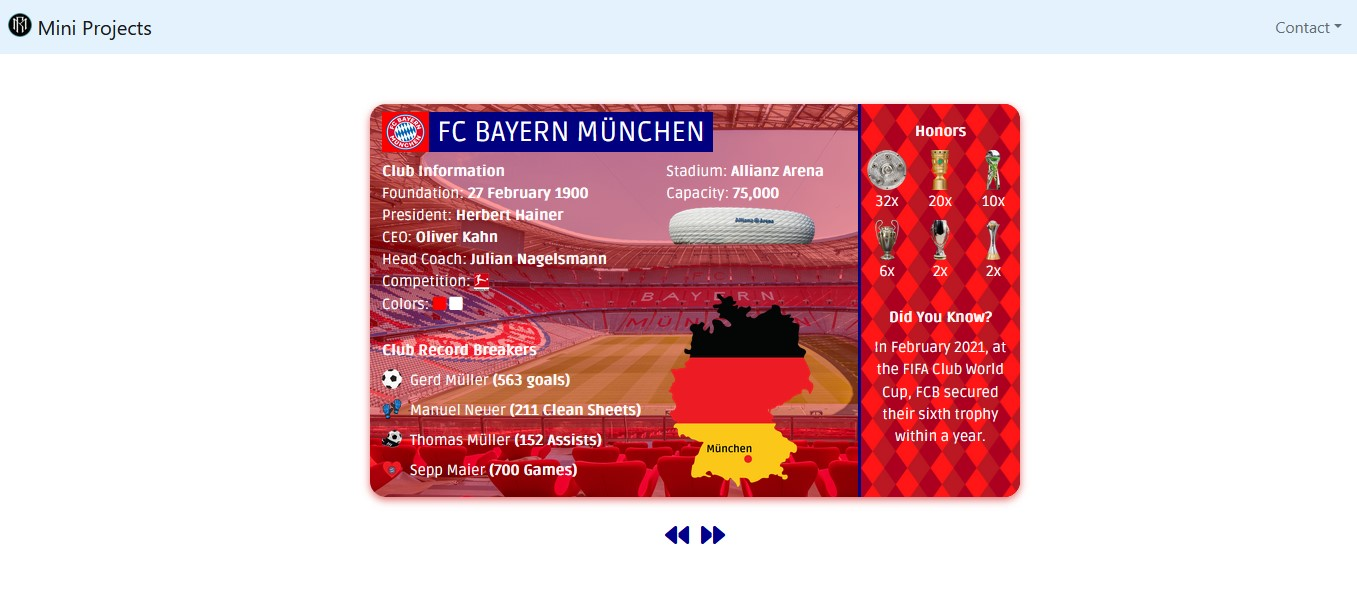
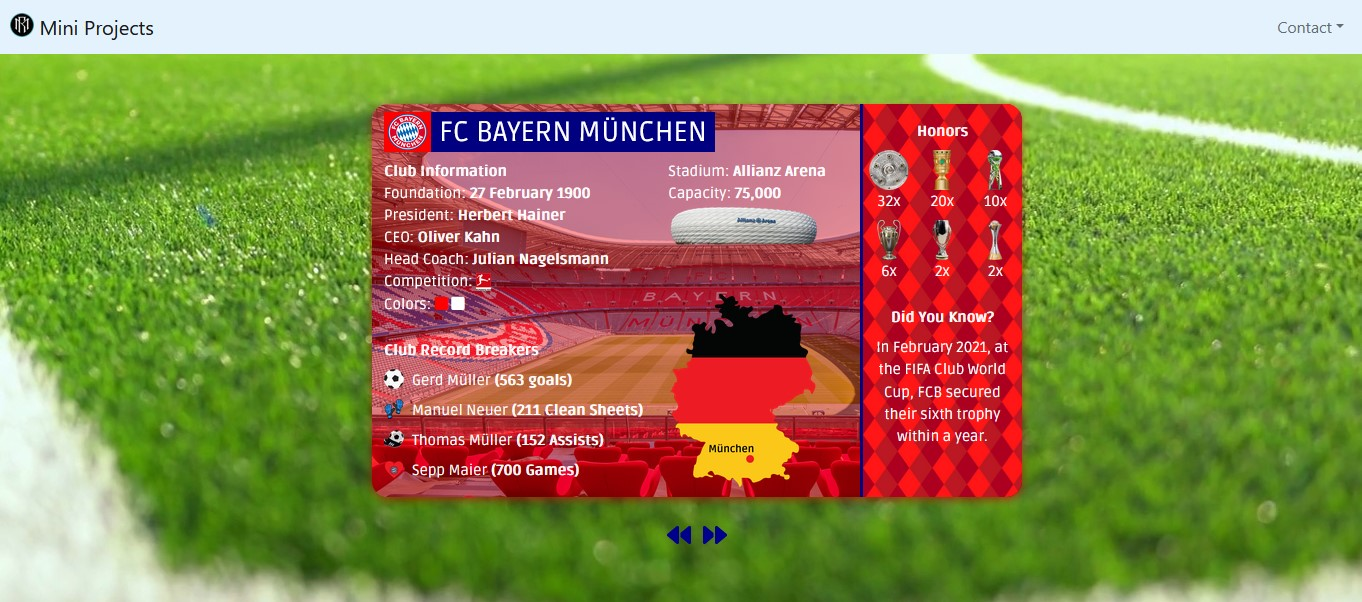
Teams slider project done

diff --git a/team-slider/index.html b/team-slider/index.html
@@ -548,29 +548,29 @@
                         <div class="row">
                             <div class="col col-7">
                                 <b><p>Club Information<p></b>
-                                <p>Foundation: <b>06 March 1902</b></p>
-                                <p>President: <b>Florentino Pérez</b></p>
-                                <p>Owner(s): <b>93,920 partners</b></p>
-                                <p>Head Coach: <b>Carlo Ancelotti</b></p>
+                                <p>Foundation: <b>12 September 1907</b></p>
+                                <p>President: <b>Ángel Haro García</b></p>
+                                <p>Owner(s): <b>Members</b></p>
+                                <p>Head Coach: <b>Manuel Pellegrini</b></p>
                                 <p>Competition:  <img src="assets/images/LaLiga.png" width="15" height="18" alt="La Liga"></p>
                                 <p>Colors: <i class="fa-solid fa-square betis-first-color"></i> <i class="fa-solid fa-square betis-second-color"></i></p><br>
                                 
                                 <b><p>Club Record Breakers<p></b>
                                 <div class="wrapper">
                                     <img class="record" src="assets/images/Ball.png" alt="Scorer">
-                                    <p class="club-legend">Cristiano Ronaldo <b>(451 goals)</b></p>
+                                    <p class="club-legend">Ruben Castro <b>(147 goals)</b></p>
                                 </div>
                                 <div class="wrapper">
                                     <img class="record" src="assets/images/Gloves.png" alt="Gloves">
-                                    <p class="club-legend">Iker Casillas <b>(272 Clean Sheets)</b></p>
+                                    <p class="club-legend">Urquiaga <b>(23 Clean Sheets)</b></p>
                                 </div>
                                 <div class="wrapper">
                                     <img class="record" src="assets/images/Assists.png" alt="Assists">
-                                    <p class="club-legend">Karim Benzema <b>(160 Assists)</b></p>
+                                    <p class="club-legend">Joaquín <b>(82 Assists)</b></p>
                                 </div>
                                 <div class="wrapper">
                                     <img class="record" src="assets/images/BetisHeart.png" alt="Appereances">
-                                    <p class="club-legend last-legend">Raúl González <b>(741 Games)</b></p>
+                                    <p class="club-legend last-legend">Joaquin <b>(419 Games)</b></p>
                                 </div>
                             </div>
                             <div class="col col-5">
@@ -596,13 +596,13 @@
                             </div>
                             <div class="row titleCount">
                                 <div class="col-4">
-                                    <p>35x</p>
+                                    <p>1x</p>
                                 </div>
                                 <div class="col-4">
-                                    <p>19x</p>
+                                    <p>2x</p>
                                 </div>
                                 <div class="col-4">
-                                    <p>12x</p>
+                                    <p>0x</p>
                                 </div>
                             </div>
                             <div class="row">
@@ -618,13 +618,13 @@
                             </div>
                             <div class="row titleCount">
                                 <div class="col-4">
-                                    <p>14x</p>
+                                    <p>0x</p>
                                 </div>
                                 <div class="col-4">
-                                    <p>7x</p>
+                                    <p>0x</p>
                                 </div>
                                 <div class="col-4">
-                                    <p>5x</p>
+                                    <p>0x</p>
                                 </div>
                             </div>
                         <b><p class="diamonds">Did You Know?</p></b>
